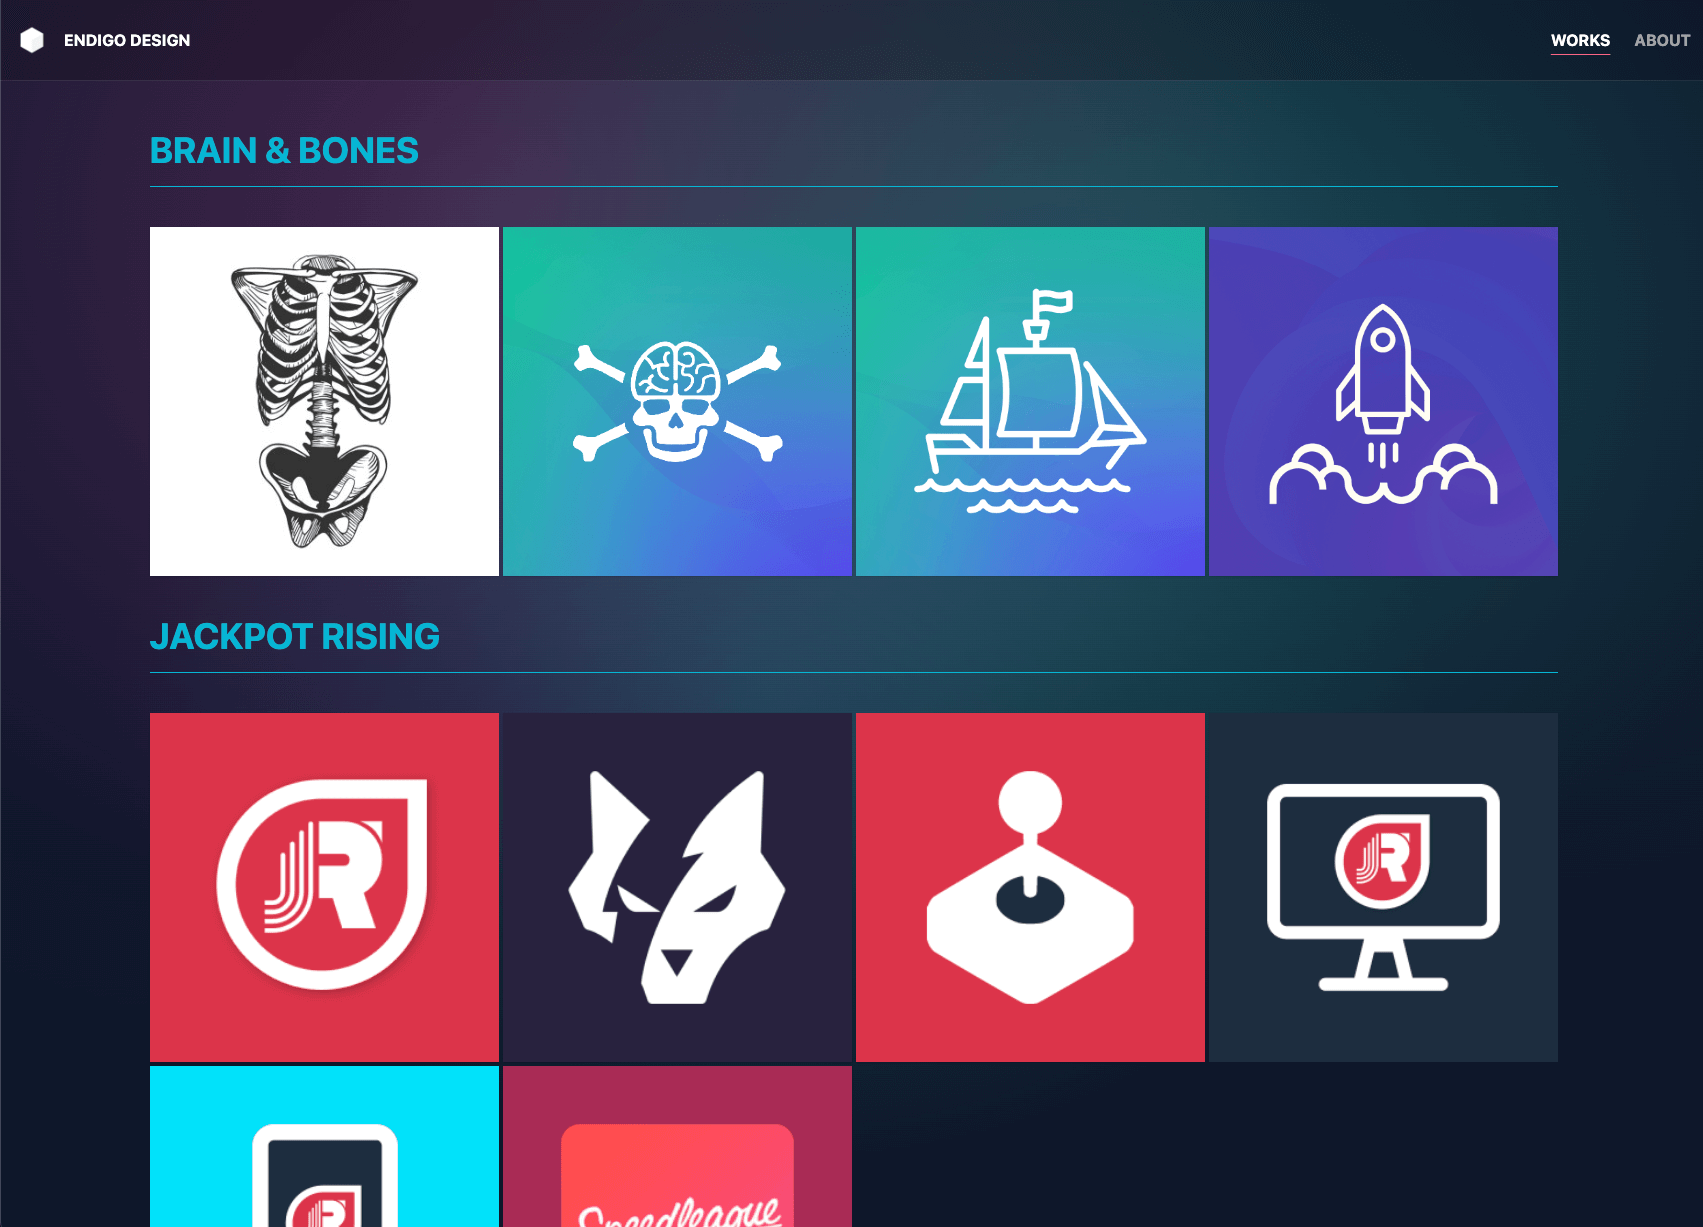
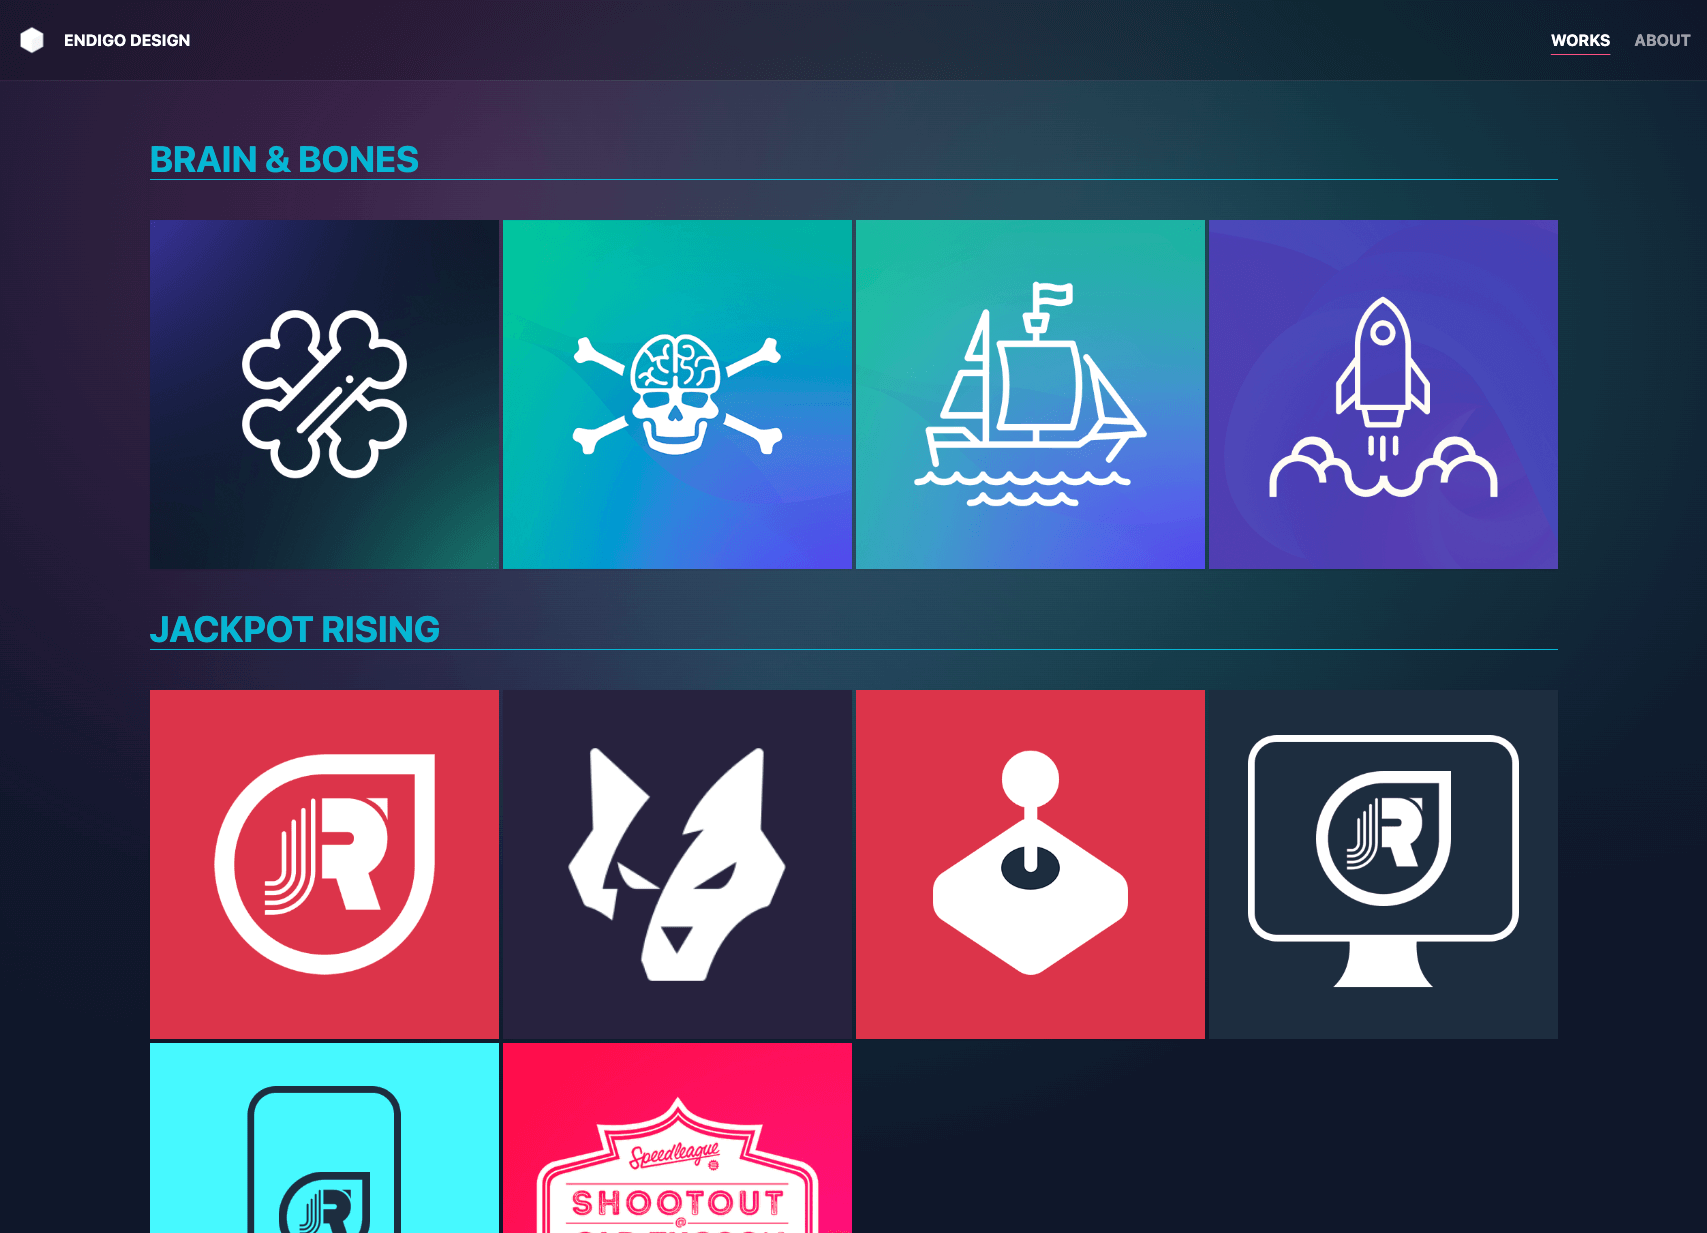
Work media updated, moved to CDN

diff --git a/src/lib/data/works.ts b/src/lib/data/works.ts
@@ -1,4 +1,4 @@
-const baseUrl: string = `https://endigodesign.com`;
+const cdnBaseUrl: string = 'http://cdn.endigodesign.com.s3-us-east-2.amazonaws.com/endigo_design/portfolio';
 
 export const works: any = {
 
@@ -15,11 +15,14 @@ export const works: any = {
                 url: 'https://skeleton.brainandbonesllc.com/',
                 coords: {x: 15, y: 77},
                 accent: '#111827',
-                thumbnail: 'works/bb-skeleton.png',
+                thumbnail: `${cdnBaseUrl}/works/bb-skeleton.png`,
                 videos: [],
                 screenshots: [
-                    {src: 'https://i.imgur.com/Pw8uHwB.png'},
-                    {caption: 'Showing off a button component.', src: 'https://i.imgur.com/V5khBZZ.png'}
+                    {src: `${cdnBaseUrl}/screenshots/brain-and-bones/skeleton/001.png`}, // caption: ''
+                    {src: `${cdnBaseUrl}/screenshots/brain-and-bones/skeleton/002.png`},
+                    {src: `${cdnBaseUrl}/screenshots/brain-and-bones/skeleton/003.png`},
+                    {src: `${cdnBaseUrl}/screenshots/brain-and-bones/skeleton/004.png`},
+                    {src: `${cdnBaseUrl}/screenshots/brain-and-bones/skeleton/005.png`},
                 ],
             },
             {
@@ -32,9 +35,14 @@ export const works: any = {
                 url: 'https://www.brainandbonesllc.com/',
                 coords: {x: 29, y: 101},
                 accent: '#34d399',
-                thumbnail: 'works/bb-logo.png',
+                thumbnail: `${cdnBaseUrl}/works/bb-logo.png`,
                 videos: [],
-                screenshots: [],
+                screenshots: [
+                    {src: `${cdnBaseUrl}/screenshots/brain-and-bones/branding/001.png`, caption: 'The company logo'},
+                    {src: `${cdnBaseUrl}/screenshots/brain-and-bones/branding/002.png`, caption: 'The brand colors'},
+                    {src: `${cdnBaseUrl}/screenshots/brain-and-bones/branding/003.png`, caption: 'Font and Typography'},
+                    {src: `${cdnBaseUrl}/screenshots/brain-and-bones/branding/004.png`, caption: 'The company website'},
+                ],
             },
             {
                 id: 'helm',
@@ -46,9 +54,14 @@ export const works: any = {
                 url: 'https://admin.speedtriviagame.com/',
                 coords: {x: 51, y: 90},
                 accent: '#818cf8',
-                thumbnail: 'works/bb-helm.png',
+                thumbnail: `${cdnBaseUrl}/works/bb-helm.png`,
                 videos: [],
-                screenshots: [],
+                screenshots: [
+                    {src: `${cdnBaseUrl}/screenshots/brain-and-bones/helm/001.png`, caption: 'The quiz selection'},
+                    {src: `${cdnBaseUrl}/screenshots/brain-and-bones/helm/002.png`, caption: 'The quiz metrics dashboard'},
+                    {src: `${cdnBaseUrl}/screenshots/brain-and-bones/helm/003.png`, caption: 'Attached quiz media'},
+                    {src: `${cdnBaseUrl}/screenshots/brain-and-bones/helm/004.png`, caption: 'Browsing organizations'},
+                ],
             },
             {
                 id: 'speed-trivia',
@@ -60,9 +73,17 @@ export const works: any = {
                 url: 'https://www.speedtriviagame.com/',
                 coords: {x: 72, y: 111},
                 accent: '#4c1d95',
-                thumbnail: 'works/bb-speed-trivia.png',
+                thumbnail: `${cdnBaseUrl}/works/bb-speed-trivia.png`,
                 videos: [],
-                screenshots: [],
+                screenshots: [
+                    {src: `${cdnBaseUrl}/screenshots/brain-and-bones/speed-trivia/001.png`, caption: 'The promotional marketing website'},
+                    {src: `${cdnBaseUrl}/screenshots/brain-and-bones/speed-trivia/002.png`, caption: 'The company logo'},
+                    {src: `${cdnBaseUrl}/screenshots/brain-and-bones/speed-trivia/003.png`, caption: 'Speed Trivia game main menu'},
+                    {src: `${cdnBaseUrl}/screenshots/brain-and-bones/speed-trivia/004.png`, caption: 'Game start screen. The rocket and moon oribit the planet!'},
+                    {src: `${cdnBaseUrl}/screenshots/brain-and-bones/speed-trivia/005.png`, caption: 'Core trivia gameplay on desktop'},
+                    {src: `${cdnBaseUrl}/screenshots/brain-and-bones/speed-trivia/006.png`, caption: 'The live leaderboard standings'},
+                    {src: `${cdnBaseUrl}/screenshots/brain-and-bones/speed-trivia/007.png`, caption: 'Advertisements created for Speed Trivia'},
+                ],
             },
         ]
     },
@@ -80,14 +101,14 @@ export const works: any = {
                 url: null,
                 coords: {x: 14, y: 34},
                 accent: '#dc334a',
-                thumbnail: 'works/jr-logo.png',
+                thumbnail: `${cdnBaseUrl}/works/jr-logo.png`,
                 videos: [
                     {src: 'https://www.youtube.com/embed/0ah2zZQ6xHc'}
                 ],
                 screenshots: [
-                    {src: baseUrl+'/img/projects/jr_brand/001.png', caption: 'The comapny website'},
-                    {src: baseUrl+'/img/projects/jr_brand/002.png', caption: 'The Jackpot Rising logo and brand colors'},
-                    {src: baseUrl+'/img/projects/jr_brand/006.jpg', caption: 'Branded shirts for staff'}
+                    {src: `${cdnBaseUrl}/screenshots/jackpot-rising/branding/001.png`, caption: 'The comapny website'},
+                    {src: `${cdnBaseUrl}/screenshots/jackpot-rising/branding/002.png`, caption: 'The Jackpot Rising logo and brand colors'},
+                    {src: `${cdnBaseUrl}/screenshots/jackpot-rising/branding/003.png`, caption: 'Branded shirts for staff'}
                 ],
             },
             {
@@ -100,14 +121,14 @@ export const works: any = {
                 url: 'https://www.overwolf.com/app/Jackpot_Rising_Inc-Jackpot_Rising',
                 coords: {x: 43, y: 8},
                 accent: '#27223e',
-                thumbnail: 'works/jr-overwolf.png',
+                thumbnail: `${cdnBaseUrl}/works/jr-overwolf.png`,
                 videos: [],
                 screenshots: [
-                    {src: baseUrl+'/img/projects/jr_overwolf/001.png', caption: 'Tournament List'},
-                    {src: baseUrl+'/img/projects/jr_overwolf/002.png', caption: 'Tournament Details'},
-                    {src: baseUrl+'/img/projects/jr_overwolf/003.png', caption: 'Login View'},
-                    {src: baseUrl+'/img/projects/jr_overwolf/008.jpg', caption: 'The app At Dreamhack Dallas 2019'},
-                    {src: baseUrl+'/img/projects/jr_overwolf/009.jpg', caption: 'The leaderboard standings at Dreamhack Dallas 2019'}
+                    {src: `${cdnBaseUrl}/screenshots/jackpot-rising/overwolf/001.png`, caption: 'Tournament List'},
+                    {src: `${cdnBaseUrl}/screenshots/jackpot-rising/overwolf/002.png`, caption: 'Tournament Details'},
+                    {src: `${cdnBaseUrl}/screenshots/jackpot-rising/overwolf/003.png`, caption: 'Login View'},
+                    {src: `${cdnBaseUrl}/screenshots/jackpot-rising/overwolf/008.png`, caption: 'The app At Dreamhack Dallas 2019'},
+                    {src: `${cdnBaseUrl}/screenshots/jackpot-rising/overwolf/009.png`, caption: 'The leaderboard standings at Dreamhack Dallas 2019'}
                 ],
             },
             {
@@ -120,13 +141,13 @@ export const works: any = {
                 name: 'Arcade',
                 coords: {x: 13, y: 9},
                 accent: '#dc334a',
-                thumbnail: 'works/jr-arcade.png',
+                thumbnail: `${cdnBaseUrl}/works/jr-arcade.png`,
                 videos: [
                     {src: 'https://www.youtube.com/embed/MsQ7q6vdTOo'}
                 ],
                 screenshots: [
-                    {src: baseUrl+'/img/projects/jr_arcade/001.jpg', caption: 'The skeeball device'},
-                    {src: baseUrl+'/img/projects/jr_arcade/002a.png', caption: 'The puttskee device'}
+                    {src: `${cdnBaseUrl}/screenshots/jackpot-rising/arcade/001.png`, caption: 'The skeeball device'},
+                    {src: `${cdnBaseUrl}/screenshots/jackpot-rising/arcade/002.png`, caption: 'The puttskee device'}
                 ],
             },
             {
@@ -139,15 +160,15 @@ export const works: any = {
                 url: null,
                 coords: {x: 48, y: 31},
                 accent: '#1d2d3f',
-                thumbnail: 'works/jr-homebase.png',
+                thumbnail: `${cdnBaseUrl}/works/jr-homebase.png`,
                 videos: [],
                 screenshots: [
-                    {src: baseUrl+'/img/projects/jr_homebase/001.png', caption: 'Login View'},
-                    {src: baseUrl+'/img/projects/jr_homebase/002.png', caption: 'Deashboard and Active Stats'},
-                    {src: baseUrl+'/img/projects/jr_homebase/003.png', caption: 'Organizations and Properties'},
-                    {src: baseUrl+'/img/projects/jr_homebase/004.png', caption: 'Tournaments List'},
-                    {src: baseUrl+'/img/projects/jr_homebase/005.png', caption: 'Tournament Form'},
-                    {src: baseUrl+'/img/projects/jr_homebase/006.png', caption: 'A sample of UI components from the mockup'}
+                    {src: `${cdnBaseUrl}/screenshots/jackpot-rising/homebase/001.png`, caption: 'Login View'},
+                    {src: `${cdnBaseUrl}/screenshots/jackpot-rising/homebase/002.png`, caption: 'Deashboard and Active Stats'},
+                    {src: `${cdnBaseUrl}/screenshots/jackpot-rising/homebase/003.png`, caption: 'Organizations and Properties'},
+                    {src: `${cdnBaseUrl}/screenshots/jackpot-rising/homebase/004.png`, caption: 'Tournaments List'},
+                    {src: `${cdnBaseUrl}/screenshots/jackpot-rising/homebase/005.png`, caption: 'Tournament Form'},
+                    {src: `${cdnBaseUrl}/screenshots/jackpot-rising/homebase/006.png`, caption: 'A sample of UI components from the mockup'}
                 ],
             },
             {
@@ -160,16 +181,18 @@ export const works: any = {
                 url: null,
                 coords: {x: 81, y: 11},
                 accent: '#00e2fa',
-                thumbnail: 'works/jr-playerhq.png',
+                thumbnail: `${cdnBaseUrl}/works/jr-playerhq.png`,
                 videos: [],
                 screenshots: [
-                    {src: baseUrl+'/img/projects/jr_playerhq/001.png', caption: 'Active list of tournaments'},
-                    {src: baseUrl+'/img/projects/jr_playerhq/001a.png', caption: 'Tournament details and leaderboard'},
-                    {src: baseUrl+'/img/projects/jr_playerhq/002.png', caption: 'List of available games'},
-                    {src: baseUrl+'/img/projects/jr_playerhq/002a.png', caption: 'The game details view'},
-                    {src: baseUrl+'/img/projects/jr_playerhq/004.png', caption: 'Support View'},
-                    {src: baseUrl+'/img/projects/jr_playerhq/005.png', caption: 'Account and fund management'},
-                    {src: baseUrl+'/img/projects/jr_playerhq/006.png', caption: 'Early mockup of the PlayerHQ app'}
+                    {src: `${cdnBaseUrl}/screenshots/jackpot-rising/playerhq/001.png`, caption: 'Active list of tournaments'},
+                    {src: `${cdnBaseUrl}/screenshots/jackpot-rising/playerhq/002.png`, caption: 'Tournament details and leaderboard'},
+                    {src: `${cdnBaseUrl}/screenshots/jackpot-rising/playerhq/003.png`, caption: 'List of available games'},
+                    {src: `${cdnBaseUrl}/screenshots/jackpot-rising/playerhq/004.png`, caption: 'The game details view'},
+                    {src: `${cdnBaseUrl}/screenshots/jackpot-rising/playerhq/005.png`, caption: 'Support View'},
+                    {src: `${cdnBaseUrl}/screenshots/jackpot-rising/playerhq/006.png`, caption: 'Account and fund management'},
+                    {src: `${cdnBaseUrl}/screenshots/jackpot-rising/playerhq/007.png`, caption: 'Early mockup of the PlayerHQ app'},
+                    {src: `${cdnBaseUrl}/screenshots/jackpot-rising/playerhq/007.png`, caption: 'Early mockup of the PlayerHQ app'},
+                    {src: `${cdnBaseUrl}/screenshots/jackpot-rising/playerhq/008.png`}
                 ],
             },
             {
@@ -182,18 +205,18 @@ export const works: any = {
                 url: 'https://www.tixr.com/groups/speedleague',
                 coords: {x: 113, y: 10},
                 accent: '#f54d78',
-                thumbnail: 'works/jr-speedleague.png',
+                thumbnail: `${cdnBaseUrl}/works/jr-speedleague.png`,
                 videos: [],
                 screenshots: [
-                    {src: baseUrl+'/img/projects/speedleague/001.png', caption: 'The in-game overlay UI'},
-                    {src: baseUrl+'/img/projects/speedleague/002.png', caption: 'Main Menu'},
-                    {src: baseUrl+'/img/projects/speedleague/003.png', caption: 'Track Selection'},
-                    {src: baseUrl+'/img/projects/speedleague/004.png', caption: 'Vehical selection and customization'},
-                    {src: baseUrl+'/img/projects/speedleague/005.png', caption: 'An tntro cinematic for the Tucson map'},
-                    {src: baseUrl+'/img/projects/speedleague/006.png', caption: 'Pause Menu'},
-                    {src: baseUrl+'/img/projects/speedleague/007.png', caption: 'Race Results'},
-                    {src: baseUrl+'/img/projects/speedleague/008.png', caption: 'Loading Screen'},
-                    {src: baseUrl+'/img/projects/speedleague/009.png', caption: 'Game Settings'},
+                    {src: `${cdnBaseUrl}/screenshots/jackpot-rising/speedleague/001.png`, caption: 'The in-game overlay UI'},
+                    {src: `${cdnBaseUrl}/screenshots/jackpot-rising/speedleague/002.png`, caption: 'Main Menu'},
+                    {src: `${cdnBaseUrl}/screenshots/jackpot-rising/speedleague/003.png`, caption: 'Track Selection'},
+                    {src: `${cdnBaseUrl}/screenshots/jackpot-rising/speedleague/004.png`, caption: 'Vehical selection and customization'},
+                    {src: `${cdnBaseUrl}/screenshots/jackpot-rising/speedleague/005.png`, caption: 'An tntro cinematic for the Tucson map'},
+                    {src: `${cdnBaseUrl}/screenshots/jackpot-rising/speedleague/006.png`, caption: 'Pause Menu'},
+                    {src: `${cdnBaseUrl}/screenshots/jackpot-rising/speedleague/007.png`, caption: 'Race Results'},
+                    {src: `${cdnBaseUrl}/screenshots/jackpot-rising/speedleague/008.png`, caption: 'Loading Screen'},
+                    {src: `${cdnBaseUrl}/screenshots/jackpot-rising/speedleague/009.png`, caption: 'Game Settings'},
                 ],
             },
         ]
@@ -214,17 +237,17 @@ export const works: any = {
                 url: 'http://minirlgame.com/',
                 coords: {x: 87, y: 65},
                 accent: '#5a253f',
-                thumbnail: 'works/gaming-minirl.png',
+                thumbnail: `${cdnBaseUrl}/works/gaming-minirl.png`,
                 videos: [
                     {src: 'https://www.youtube.com/embed/34FzHsNFN1g', caption: 'The launch trailer'},
                 ],
                 screenshots: [
-                    {src: baseUrl+'/img/projects/minirl/001.png', caption: 'The promotional website'},
-                    {src: baseUrl+'/img/projects/minirl/002.png', caption: 'Grass World'},
-                    {src: baseUrl+'/img/projects/minirl/003.png', caption: 'Cave World'},
-                    {src: baseUrl+'/img/projects/minirl/004.png', caption: 'Snow World'},
-                    {src: baseUrl+'/img/projects/minirl/005.png', caption: 'Space World'},
-                    {src: baseUrl+'/img/projects/minirl/006.png', caption: 'Fire World'}
+                    {src: `${cdnBaseUrl}/screenshots/gaming/minirl/001.png`, caption: 'The promotional website'},
+                    {src: `${cdnBaseUrl}/screenshots/gaming/minirl/002.png`, caption: 'Grass World'},
+                    {src: `${cdnBaseUrl}/screenshots/gaming/minirl/003.png`, caption: 'Cave World'},
+                    {src: `${cdnBaseUrl}/screenshots/gaming/minirl/004.png`, caption: 'Snow World'},
+                    {src: `${cdnBaseUrl}/screenshots/gaming/minirl/005.png`, caption: 'Space World'},
+                    {src: `${cdnBaseUrl}/screenshots/gaming/minirl/006.png`, caption: 'Fire World'}
                 ],
             },
             {
@@ -237,9 +260,12 @@ export const works: any = {
                 url: 'https://endigo9740.github.io/elden-ring-planner',
                 coords: {x: 112, y: 43},
                 accent: '#202018',
-                thumbnail: 'works/gaming-er-planner.png',
+                thumbnail: `${cdnBaseUrl}/works/gaming-er-planner.png`,
                 videos: [],
-                screenshots: [],
+                screenshots: [
+                    {src: `${cdnBaseUrl}/screenshots/gaming/elden-ring-planner/001.png`, caption: 'Your selected gear'},
+                    {src: `${cdnBaseUrl}/screenshots/gaming/elden-ring-planner/002.png`, caption: 'Browsing available armaments'},
+                ],
             },
         ]
     },

diff --git a/src/lib/components/Menu.svelte b/src/lib/components/Menu.svelte
@@ -84,7 +84,7 @@
                                 class="bg-black/30 p-1 rounded cursor-pointer flex items-center space-x-4 group hover:bg-pink-500"
                                 on:click={()=>{naviateToPillar(project)}}
                             >
-                                <img src={`../../${project.thumbnail}`} class="w-[64px] aspect-square rounded group-hover:grayscale group-hover:contrast-120" style:background-color={project.accent} alt="thumbnail">
+                                <img src={`${project.thumbnail}`} class="w-[64px] aspect-square rounded group-hover:grayscale group-hover:contrast-120" style:background-color={project.accent} alt="thumbnail">
                                 <span class="text-base font-bold">{project.name}</span>
                                 <!-- TODO: need to cross reference 'pillars' data -->
                                 <!-- {#if pillar.found}<div class="font-bold uppercase">Found</div>{/if} -->

diff --git a/src/routes/index.svelte b/src/routes/index.svelte
@@ -8,7 +8,7 @@
             <p>The portfolio of Chris Simmons</p>
         </header>
         <img src="logo.png" class="animFloat mx-auto py-6" alt="logo">
-        <h4>Choose your adventure...</h4>
+        <h4>Choose your own adventure...</h4>
         <nav class="grid grid-cols-2 gap-4">
             <!-- Game -->
             <a href="/game" class="bg-black/30 text-xs p-1 flex flex-col items-center rounded cursor-pointer hover:bg-pink-500">
@@ -19,6 +19,7 @@
             <a href="/works" class="bg-black/30 text-xs p-1 flex flex-col items-center rounded cursor-pointer hover:bg-pink-500">
                 <img class="w-[512px] rounded" src="intro-traditional.png" alt="Traditional">
                 <h6 class="mt-3 mb-2">Traditional</h6>
+                <p></p>
             </a>
         </nav>
     </div>

diff --git a/src/routes/works/[category]/Embed.svelte b/src/routes/works/[category]/Embed.svelte
@@ -19,7 +19,7 @@
         {#if !compact}<a href="/works" class="block text-xl p-2 -translate-x-2">&larr; Back</a>{/if}
         <!-- Thumbnail -->
         {#if work.thumbnail}
-        <img src={`../../${work.thumbnail}`} class="w-[200px] h-auto rounded" style:background-color={work.accent} alt="thumbnail">
+        <img src={work.thumbnail} class="w-[200px] h-auto rounded shadow-xl" style:background-color={work.accent} alt="thumbnail">
         {/if}
         <!-- Header -->
         <header class="space-y-2">

diff --git a/src/app.css b/src/app.css
@@ -46,7 +46,7 @@ a { @apply text-white/60 hover:text-white cursor-pointer; }
 .page {  @apply w-full h-full overflow-x-auto; }
 .page-wrap { @apply w-full max-w-[1440px] mx-auto p-4; }
 
-.section-label { @apply text-cyan-500 uppercase mb-10 border-b border-cyan-500; }
+.section-label { @apply text-cyan-500 uppercase pb-2 mb-10 border-b border-cyan-500; }
 
 .crisp {
     image-rendering: -moz-crisp-edges;

diff --git a/src/lib/game/objects/Pillar.ts b/src/lib/game/objects/Pillar.ts
@@ -1,6 +1,6 @@
 import * as PIXI from 'pixi.js';
 import { GameObject } from './GameObject';
-import { cameraStore } from '../../stores';
+import { cameraStore } from '$lib/stores';
 import { pageModalStore } from '$lib/stores';
 
 export class Pillar extends GameObject {
